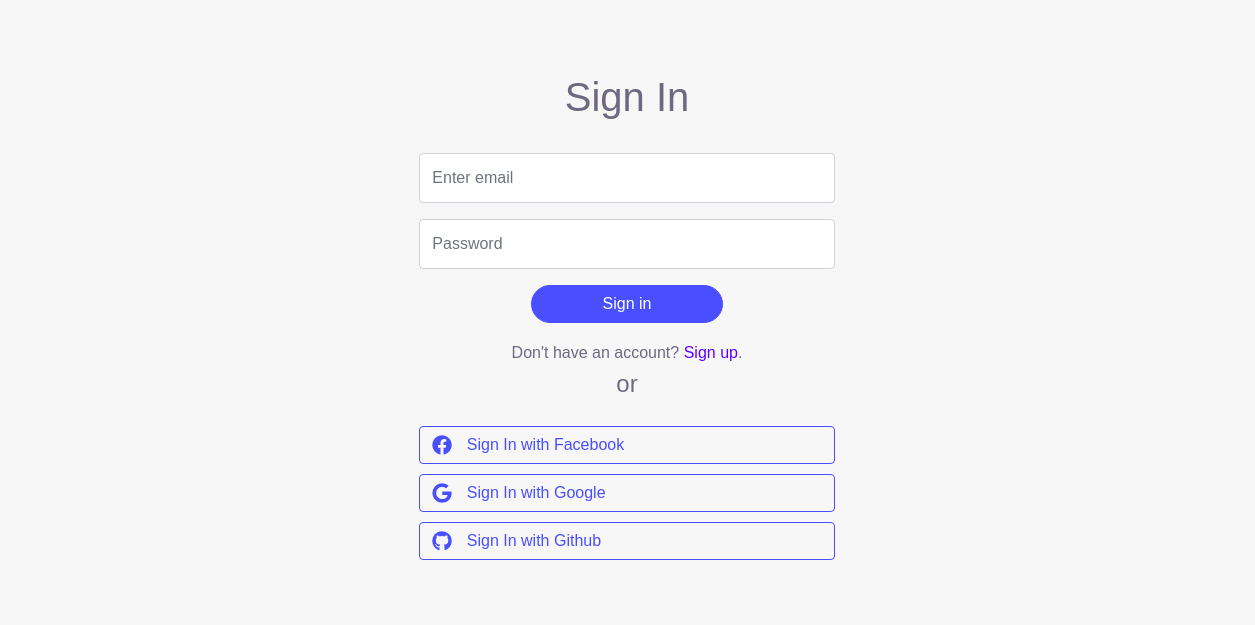
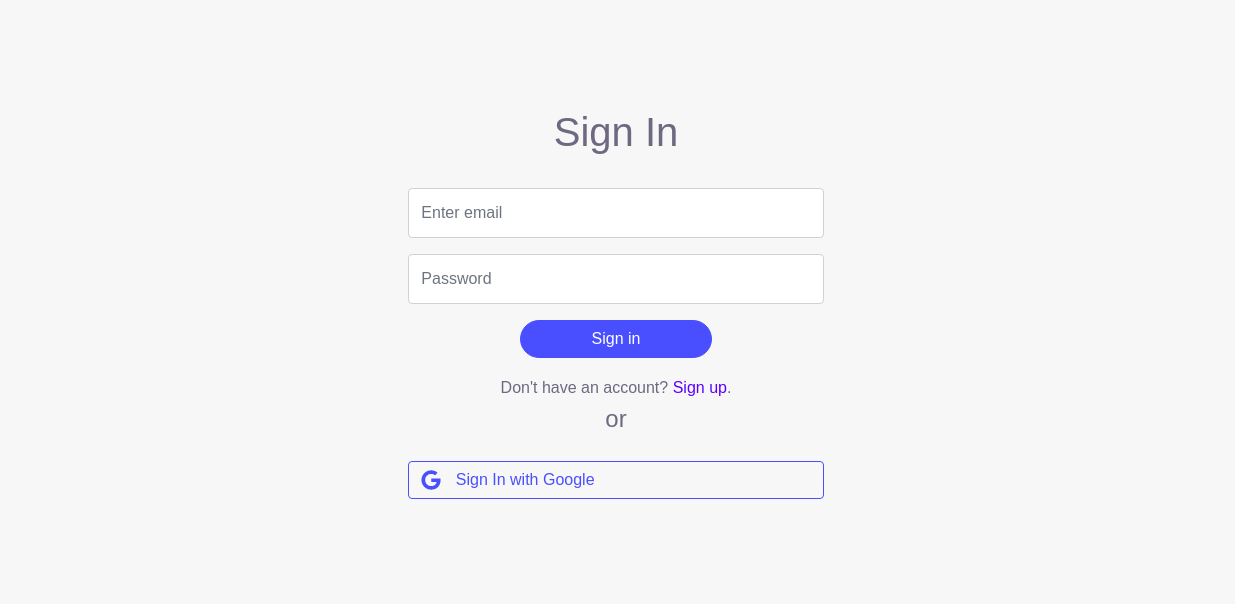
update changes

Changed region(s): [[0.3385, 0.2682, 0.6769, 0.9238], [0.4308, 0.1192, 0.5538, 0.2682]]

diff --git a/web/src/pages/SignIn/index.js b/web/src/pages/SignIn/index.js
@@ -1,7 +1,7 @@
 import React, {useState, useContext} from 'react';
 import { Container, Form, Button, Col, Row } from 'react-bootstrap';
 import Minimal from '../../layouts/Minimal';
-import { FaFacebook, FaGoogle, FaGithub } from 'react-icons/fa';
+import { FaGoogle } from 'react-icons/fa';
 import {useHistory} from 'react-router-dom';
 import {firebaseAuth} from '../../firebase/FirebaseUtils'
 import firebase from 'firebase/app';
@@ -122,25 +122,12 @@ export default function SignIn() {
                 }}>
                     <h4>or</h4>
                 </Container>
-                <div style={{marginTop: 10}}>
-                    <Button style={{width: "100%", textAlign: "left"}}variant="outline-primary">
-                        <span style={{marginRight: 10}}>
-                            <FaFacebook size={20}/>
-                        </span> Sign In with Facebook
-                    </Button>
-                </div>
+
                 <div style={{marginTop: 10}}>
                     <Button onClick={handleSignInGoogle} style={{width: "100%", textAlign: "left"}}variant="outline-primary">
                         <span style={{marginRight: 10}}>
                             <FaGoogle size={20}/>
                         </span> Sign In with Google
-                    </Button>
-                </div>
-                <div style={{marginTop: 10}}>
-                    <Button style={{width: "100%", textAlign: "left"}}variant="outline-primary">
-                        <span style={{marginRight: 10}}>
-                            <FaGithub size={20}/>
-                        </span> Sign In with Github
                     </Button>
                 </div>
             </Col>

diff --git a/web/src/pages/SignUp/index.js b/web/src/pages/SignUp/index.js
@@ -1,7 +1,7 @@
 import React, {useState} from 'react';
 import { Container, Form, Button, Col, Row } from 'react-bootstrap';
 import Minimal from '../../layouts/Minimal';
-import { FaFacebook, FaGoogle, FaGithub } from 'react-icons/fa';
+import { FaGoogle } from 'react-icons/fa';
 import {useHistory} from 'react-router-dom';
 import {firebaseAuth} from '../../firebase/FirebaseUtils'
 
@@ -108,22 +108,8 @@ export default function SignUp() {
                 <div style={{marginTop: 10}}>
                     <Button style={{width: "100%", textAlign: "left"}}variant="outline-primary">
                         <span style={{marginRight: 10}}>
-                            <FaFacebook size={20}/>
-                        </span> Sign in with Facebook
-                    </Button>
-                </div>
-                <div style={{marginTop: 10}}>
-                    <Button style={{width: "100%", textAlign: "left"}}variant="outline-primary">
-                        <span style={{marginRight: 10}}>
                             <FaGoogle size={20}/>
                         </span> Sign in with Google
-                    </Button>
-                </div>
-                <div style={{marginTop: 10}}>
-                    <Button style={{width: "100%", textAlign: "left"}}variant="outline-primary">
-                        <span style={{marginRight: 10}}>
-                            <FaGithub size={20}/>
-                        </span> Sign in with Github
                     </Button>
                 </div>
             </Col>
